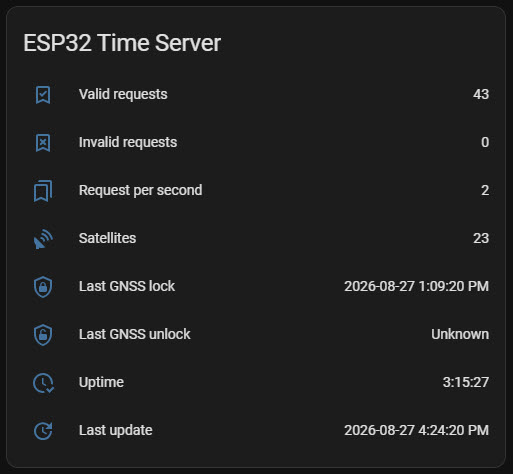
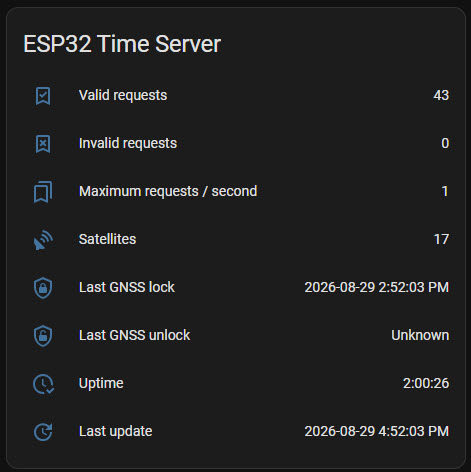
HA updates

diff --git a/HomeAssistant/README.md b/HomeAssistant/README.md
@@ -705,7 +705,7 @@ entities:
     name: Invalid requests
     icon: mdi:bookmark-remove-outline
   - entity: sensor.ntp_max_requests_per_second
-    name: Request per second
+    name: Maximum requests / second
     icon: mdi:bookmark-multiple-outline
   - entity: sensor.satellites_current
     name: Satellites
